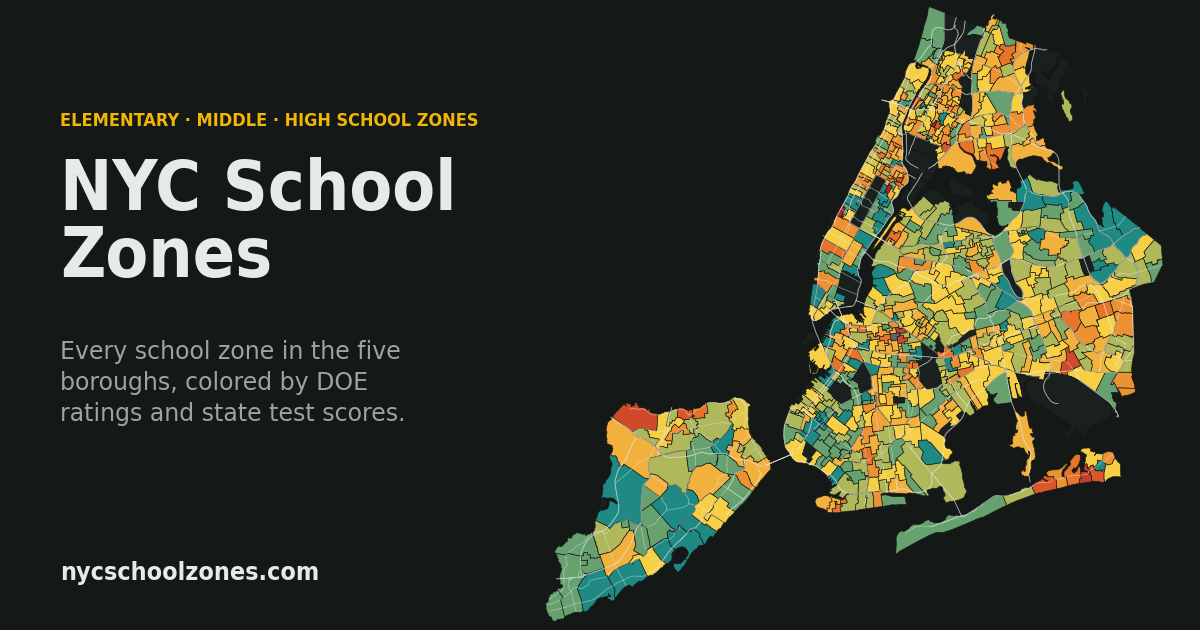
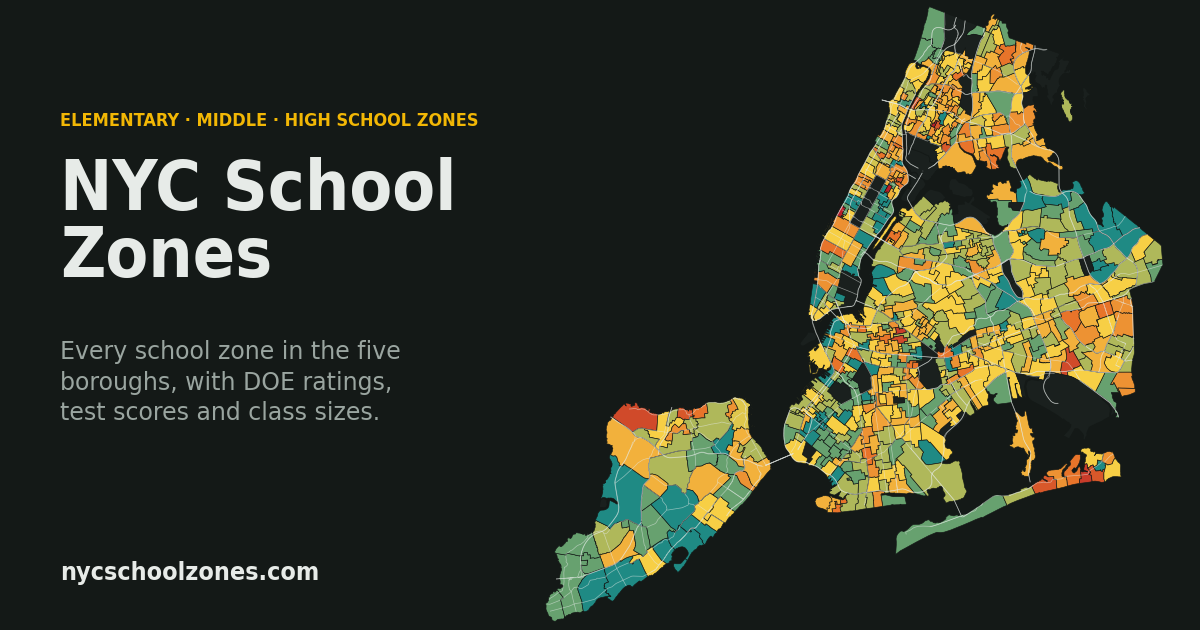
redrawn link preview, updated old claude.ai copy

diff --git a/index.html b/index.html
@@ -19,7 +19,7 @@
 <meta name="twitter:title" content="NYC School Zones">
 <meta name="twitter:description" content="Every NYC elementary (kindergarten), middle and high school zone on one map, colored by DOE School Quality ratings and state test scores. Free for parents.">
 <meta name="twitter:image" content="https://nycschoolzones.com/preview.png">
-<!-- NYC School Zones · Copyright (C) 2026 Blake Sweeney · SPDX-License-Identifier: AGPL-3.0-or-later · v1.2.0 · https://github.com/blake-sweeney/nyc-school-maps -->
+<!-- NYC School Zones · Copyright (C) 2026 Blake Sweeney · SPDX-License-Identifier: AGPL-3.0-or-later · v1.2.1 · https://github.com/blake-sweeney/nyc-school-maps -->
 <title>NYC School Zones</title>
 <link rel="preconnect" href="https://fonts.googleapis.com">
 <link rel="stylesheet" href="https://fonts.googleapis.com/css2?family=Atkinson+Hyperlegible:wght@400;700&family=IBM+Plex+Sans+Condensed:wght@500;600;700&display=swap">
@@ -220,6 +220,10 @@ aside>*{flex-shrink:0}
 .intro .must a{color:inherit}
 .intro .row{display:flex;justify-content:space-between;align-items:center;gap:12px;flex-wrap:wrap}
 .intro small{color:var(--muted)}
+.intro .terms{margin:0 0 14px;border-top:1px solid var(--line,rgba(127,127,127,.3));padding-top:10px;font-size:.88rem}
+.intro .terms summary{cursor:pointer;font-weight:700;color:var(--hl)}
+.intro .terms p{margin:8px 0}
+.intro .terms ul{margin:8px 0 0;gap:6px}
 .about .link-btn{all:unset;cursor:pointer;color:var(--hl);text-decoration:underline}
 .about details summary{cursor:pointer;color:var(--fg);font-family:var(--display);font-weight:600}
 .about details p{margin:6px 0 0}
@@ -333,9 +337,9 @@ aside>*{flex-shrink:0}
 
     <div class="about">
       <p>Questions, corrections or ideas? Email <a href="mailto:info@nycschoolzones.com?subject=NYC%20School%20Zones%20feedback">info@nycschoolzones.com</a></p>
-      <p><button type="button" class="link-btn" id="about-open">About this map</button></p>
+      <p><button type="button" class="link-btn" id="about-open">About this map</button> · <button type="button" class="link-btn" id="terms-open">Terms &amp; privacy</button></p>
       <p><a href="https://github.com/blake-sweeney/nyc-school-maps" target="_blank" rel="noopener">Source code</a> (AGPL-3.0)</p>
-      <p class="asof">Zones: NYC DOE Find a School, Oct 2026 · Ratings, test scores and programs: DOE 2024–25 School Quality Snapshot · Updated Oct 2026 · <a href="https://github.com/blake-sweeney/nyc-school-maps/blob/main/CHANGELOG.md" target="_blank" rel="noopener">v1.2.0</a></p>
+      <p class="asof">Zones: NYC DOE Find a School, Oct 2026 · Ratings, test scores and programs: DOE 2024–25 School Quality Snapshot · Updated Oct 2026 · <a href="https://github.com/blake-sweeney/nyc-school-maps/blob/main/CHANGELOG.md" target="_blank" rel="noopener">v1.2.1</a></p>
       <details><summary>Data sources</summary>
         <p>School zones from the DOE’s <a href="https://schoolsearch.schools.nyc/" target="_blank" rel="noopener">Find a School</a> map. Thanks to Jimmy Chion’s <a href="https://schoolzones.nyc/" target="_blank" rel="noopener">schoolzones.nyc</a> for pointing the way to the DOE’s current zone data. School names and addresses from the 2019–20 DOE location list. State test results, ratings, programs and current school names from the DOE’s <a href="https://tools.nycenet.edu/snapshot/" target="_blank" rel="noopener">2024–25 School Quality Snapshot</a>. Shared zones show the combined result of all their schools. Address lookup by NYC Planning’s GeoSearch.</p>
       </details>
@@ -352,6 +356,16 @@ aside>*{flex-shrink:0}
     <li>Living in a zone gives your child priority at that school, not a guaranteed seat. Applications and offers go through <a href="https://www.myschools.nyc/" target="_blank" rel="noopener">MySchools</a>.</li>
   </ul>
   <p class="must">Always confirm your exact address on <a href="https://schoolsearch.schools.nyc/" target="_blank" rel="noopener">schoolsearch.schools.nyc</a> before applying.</p>
+  <details class="terms" id="intro-terms"><summary>Terms &amp; privacy</summary>
+    <p><b>Use at your own risk.</b> This map is provided as is, for general information only. It isn’t official enrollment, legal or educational advice, and it may contain errors. Don’t rely on it alone for any decision.</p>
+    <p><b>Data.</b> School data belongs to its sources (NYC Public Schools and the City of New York) and is used under their open-data terms. The map’s code is open source under the AGPL-3.0.</p>
+    <p><b>Privacy.</b> There are no accounts, no cookies and no ads. Nothing you type is stored by this site. A few display settings, like whether you’ve seen this note, are kept only in your own browser.</p>
+    <ul>
+      <li>Addresses you search are sent to NYC Planning’s <a href="https://geosearch.planninglabs.nyc/" target="_blank" rel="noopener">GeoSearch</a> to find the location.</li>
+      <li>Visits are counted with <a href="https://www.goatcounter.com/help/privacy" target="_blank" rel="noopener">GoatCounter</a>, which doesn’t use cookies or collect personal data.</li>
+      <li>Map tiles load from the City of New York, the map library from Cloudflare’s cdnjs and fonts from Google Fonts. Like any website, those servers see your IP address.</li>
+    </ul>
+  </details>
   <div class="row"><small>Questions or corrections? <a href="mailto:info@nycschoolzones.com?subject=NYC%20School%20Zones%20feedback">info@nycschoolzones.com</a></small>
     <button type="button" id="intro-ok" autofocus>Got it</button></div>
 </dialog>
@@ -913,6 +927,10 @@ intro.addEventListener('close',()=>{try{localStorage.setItem(INTRO_KEY,'1')}catc
 document.getElementById('intro-ok').addEventListener('click',()=>intro.close());
 intro.addEventListener('click',e=>{if(e.target===intro)intro.close()});  // tap outside the box
 document.getElementById('about-open').addEventListener('click',openIntro);
+const introTerms=document.getElementById('intro-terms');
+document.getElementById('terms-open').addEventListener('click',()=>{introTerms.open=true;openIntro();
+  requestAnimationFrame(()=>introTerms.scrollIntoView({block:'start'}))});
+intro.addEventListener('close',()=>{introTerms.open=false});
 if(!seenIntro())setTimeout(openIntro,400);
 // ---- phones: bottom sheet for details; Search / Grades / About buttons on the map ----
 function sheetOpen(){return appEl.classList.contains('sheet-open')}

diff --git a/src/template.html b/src/template.html
@@ -195,6 +195,10 @@ aside>*{flex-shrink:0}
 .intro .must a{color:inherit}
 .intro .row{display:flex;justify-content:space-between;align-items:center;gap:12px;flex-wrap:wrap}
 .intro small{color:var(--muted)}
+.intro .terms{margin:0 0 14px;border-top:1px solid var(--line,rgba(127,127,127,.3));padding-top:10px;font-size:.88rem}
+.intro .terms summary{cursor:pointer;font-weight:700;color:var(--hl)}
+.intro .terms p{margin:8px 0}
+.intro .terms ul{margin:8px 0 0;gap:6px}
 .about .link-btn{all:unset;cursor:pointer;color:var(--hl);text-decoration:underline}
 .about details summary{cursor:pointer;color:var(--fg);font-family:var(--display);font-weight:600}
 .about details p{margin:6px 0 0}
@@ -306,7 +310,7 @@ aside>*{flex-shrink:0}
 
     <div class="about">
       <p>Questions, corrections or ideas? Email <a href="mailto:info@nycschoolzones.com?subject=NYC%20School%20Zones%20feedback">info@nycschoolzones.com</a></p>
-      <p><button type="button" class="link-btn" id="about-open">About this map</button></p>
+      <p><button type="button" class="link-btn" id="about-open">About this map</button> · <button type="button" class="link-btn" id="terms-open">Terms &amp; privacy</button></p>
       <p><a href="https://github.com/blake-sweeney/nyc-school-maps" target="_blank" rel="noopener">Source code</a> (AGPL-3.0)</p>
       <p class="asof">Zones: NYC DOE Find a School, __ZONES_DATE__ · Ratings, test scores and programs: DOE 2024–25 School Quality Snapshot · Updated __UPDATED__ · <a href="https://github.com/blake-sweeney/nyc-school-maps/blob/main/CHANGELOG.md" target="_blank" rel="noopener">v__VERSION__</a></p>
       <details><summary>Data sources</summary>
@@ -325,6 +329,16 @@ aside>*{flex-shrink:0}
     <li>Living in a zone gives your child priority at that school, not a guaranteed seat. Applications and offers go through <a href="https://www.myschools.nyc/" target="_blank" rel="noopener">MySchools</a>.</li>
   </ul>
   <p class="must">Always confirm your exact address on <a href="https://schoolsearch.schools.nyc/" target="_blank" rel="noopener">schoolsearch.schools.nyc</a> before applying.</p>
+  <details class="terms" id="intro-terms"><summary>Terms &amp; privacy</summary>
+    <p><b>Use at your own risk.</b> This map is provided as is, for general information only. It isn’t official enrollment, legal or educational advice, and it may contain errors. Don’t rely on it alone for any decision.</p>
+    <p><b>Data.</b> School data belongs to its sources (NYC Public Schools and the City of New York) and is used under their open-data terms. The map’s code is open source under the AGPL-3.0.</p>
+    <p><b>Privacy.</b> There are no accounts, no cookies and no ads. Nothing you type is stored by this site. A few display settings, like whether you’ve seen this note, are kept only in your own browser.</p>
+    <ul>
+      <li>Addresses you search are sent to NYC Planning’s <a href="https://geosearch.planninglabs.nyc/" target="_blank" rel="noopener">GeoSearch</a> to find the location.</li>
+      <li>Visits are counted with <a href="https://www.goatcounter.com/help/privacy" target="_blank" rel="noopener">GoatCounter</a>, which doesn’t use cookies or collect personal data.</li>
+      <li>Map tiles load from the City of New York, the map library from Cloudflare’s cdnjs and fonts from Google Fonts. Like any website, those servers see your IP address.</li>
+    </ul>
+  </details>
   <div class="row"><small>Questions or corrections? <a href="mailto:info@nycschoolzones.com?subject=NYC%20School%20Zones%20feedback">info@nycschoolzones.com</a></small>
     <button type="button" id="intro-ok" autofocus>Got it</button></div>
 </dialog>
@@ -886,6 +900,10 @@ intro.addEventListener('close',()=>{try{localStorage.setItem(INTRO_KEY,'1')}catc
 document.getElementById('intro-ok').addEventListener('click',()=>intro.close());
 intro.addEventListener('click',e=>{if(e.target===intro)intro.close()});  // tap outside the box
 document.getElementById('about-open').addEventListener('click',openIntro);
+const introTerms=document.getElementById('intro-terms');
+document.getElementById('terms-open').addEventListener('click',()=>{introTerms.open=true;openIntro();
+  requestAnimationFrame(()=>introTerms.scrollIntoView({block:'start'}))});
+intro.addEventListener('close',()=>{introTerms.open=false});
 if(!seenIntro())setTimeout(openIntro,400);
 // ---- phones: bottom sheet for details; Search / Grades / About buttons on the map ----
 function sheetOpen(){return appEl.classList.contains('sheet-open')}

diff --git a/scripts/make_preview.py b/scripts/make_preview.py
@@ -92,7 +92,7 @@ def main():
     reg = font_manager.FontProperties(family="DejaVu Sans")
     fig.text(0.05, 0.80, "ELEMENTARY · MIDDLE · HIGH SCHOOL ZONES", color=ACCENT, fontproperties=bold, fontsize=13)
     fig.text(0.05, 0.56, "NYC School\nZones", color=PANEL_FG, fontproperties=bold, fontsize=50, linespacing=1.0)
-    fig.text(0.05, 0.46, "Every school zone in the five\nboroughs, colored by DOE\nratings and state test scores.",
+    fig.text(0.05, 0.46, "Every school zone in the five\nboroughs, with DOE ratings,\ntest scores and class sizes.",
              color=MUTED, fontproperties=reg, fontsize=17, linespacing=1.35, va="top")
     fig.text(0.05, 0.08, "nycschoolzones.com", color=PANEL_FG, fontproperties=bold, fontsize=18)
 

diff --git a/CHANGELOG.md b/CHANGELOG.md
@@ -6,6 +6,14 @@ What changed in each version of [nycschoolzones.com](https://nycschoolzones.com)
 - **Minor** (1.1.0): a new feature, like admissions data in the zone card
 - **Patch** (1.0.1): fixes and wording changes
 
+## 1.2.1 (2026-10-07)
+
+### Added
+- Terms & privacy: a short section in the "Before you start" note, also opened from a new footer link.
+
+### Changed
+- New link preview image, with the current zones and colors.
+
 ## 1.2.0 (2026-10-07)
 
 ### Added
